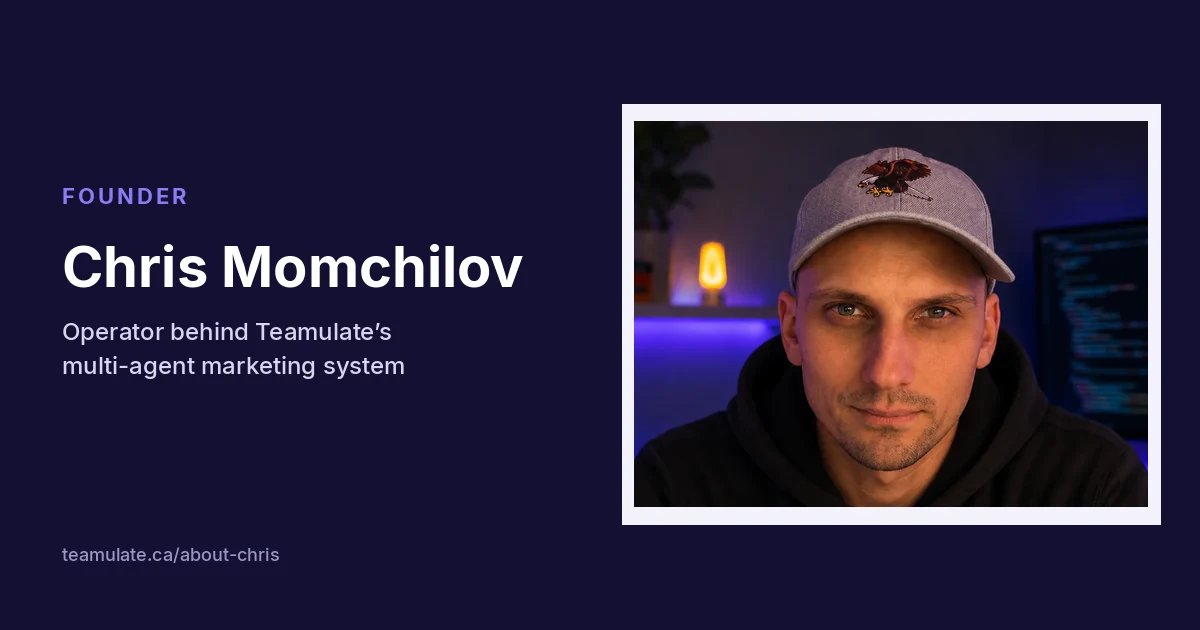
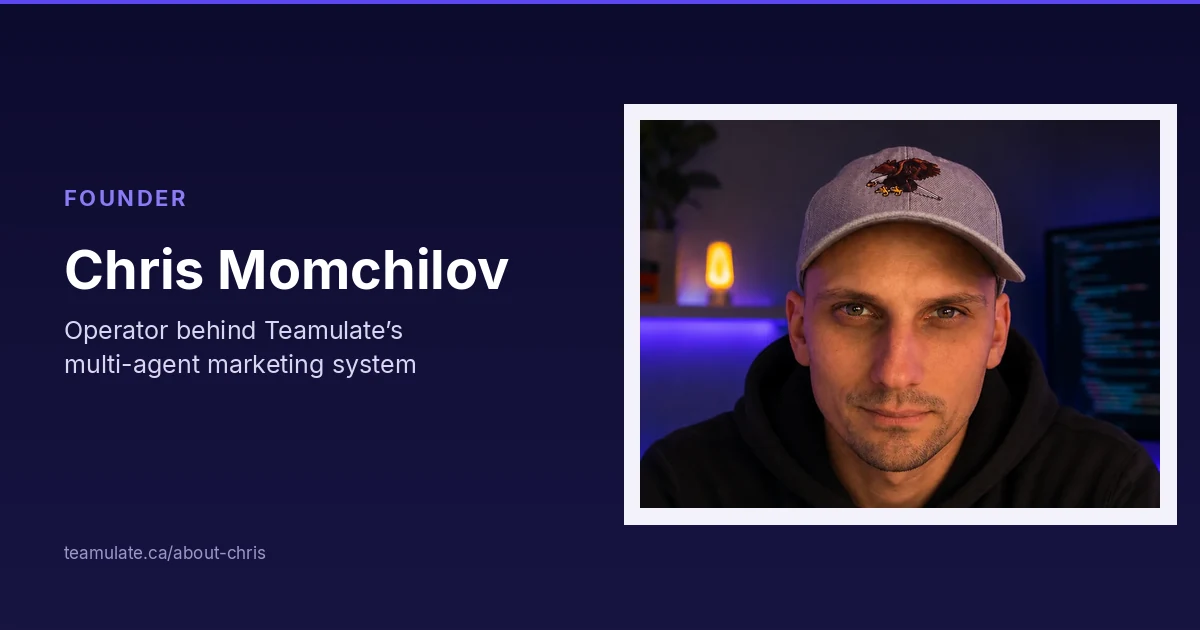
About Chris: adopt Pixel's verbatim AI-systems SVG and align hero/OG to the final comps
- ai-systems-diagram.svg replaced with the authoritative Pixel file (960x320,
  'How Chris runs the department'); page <img> height updated to 320.
- og-about-chris-1200x630.webp regenerated to match the final comp: navy
  gradient, violet top rule, copy block at x=64, framed photo at 624-1176.
- hero-card-4x3.webp re-encoded at the same face-centred 4:3 crop.

Attachments were again not present on disk, so raster assets are rebuilt from
public/founder/chris-founder-2026.webp to match the comps rather than copied.

diff --git a/src/app/about-chris/page.tsx b/src/app/about-chris/page.tsx
@@ -360,7 +360,7 @@ export default function AboutChrisPage() {
             src={AI_SYSTEMS_DIAGRAM}
             alt="Flow diagram: Chris (human) → Strategos, Head of Marketing → 11 specialist agents → Guardian QA and brand checks → human approval gates. Strategy, spend, and brand stay with Chris; agents run the routine work."
             width={960}
-            height={300}
+            height={320}
             className="h-auto w-full"
           />
         </figure>
